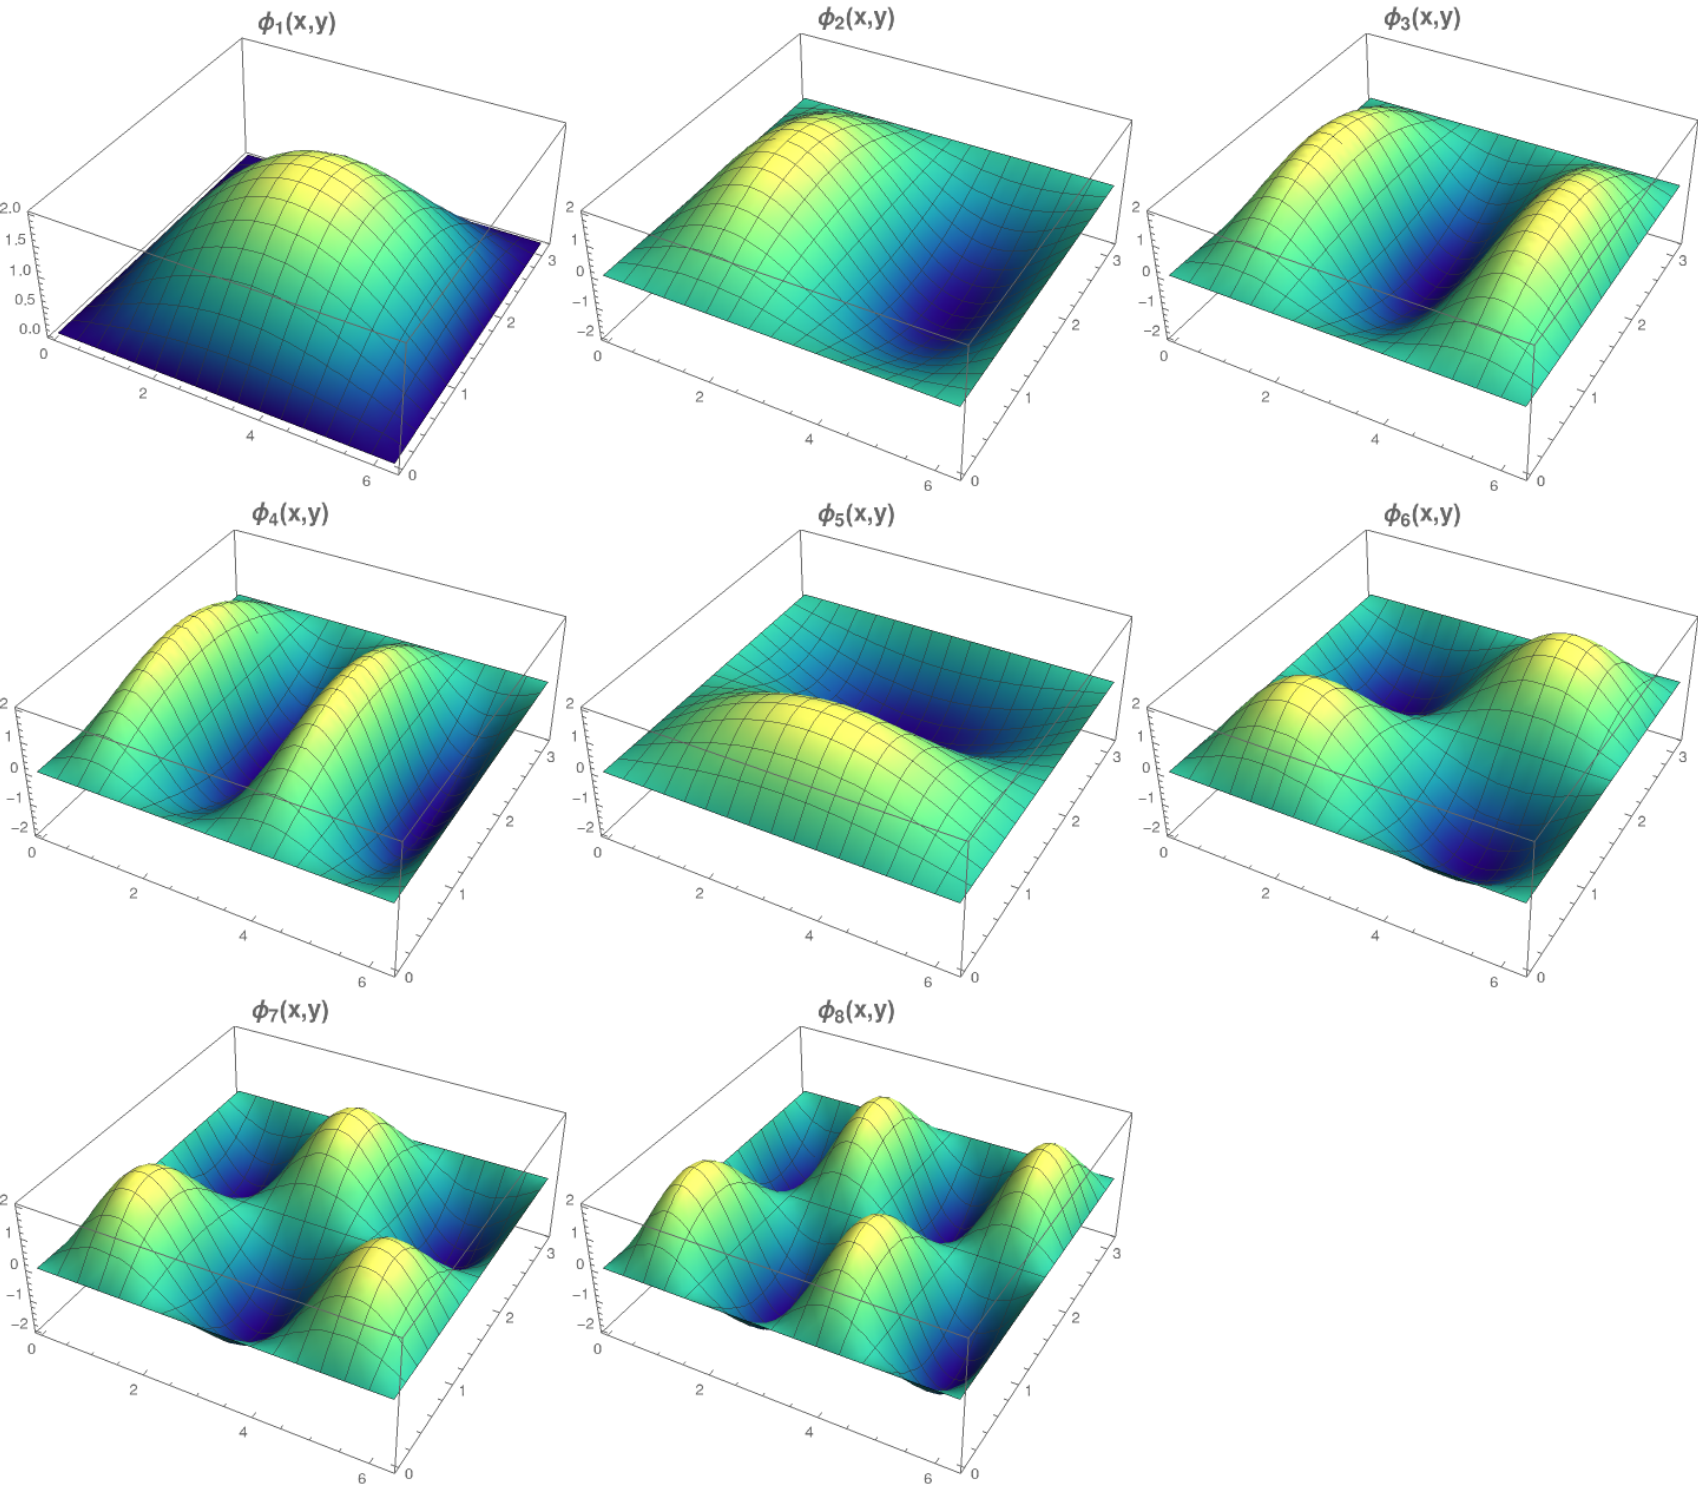
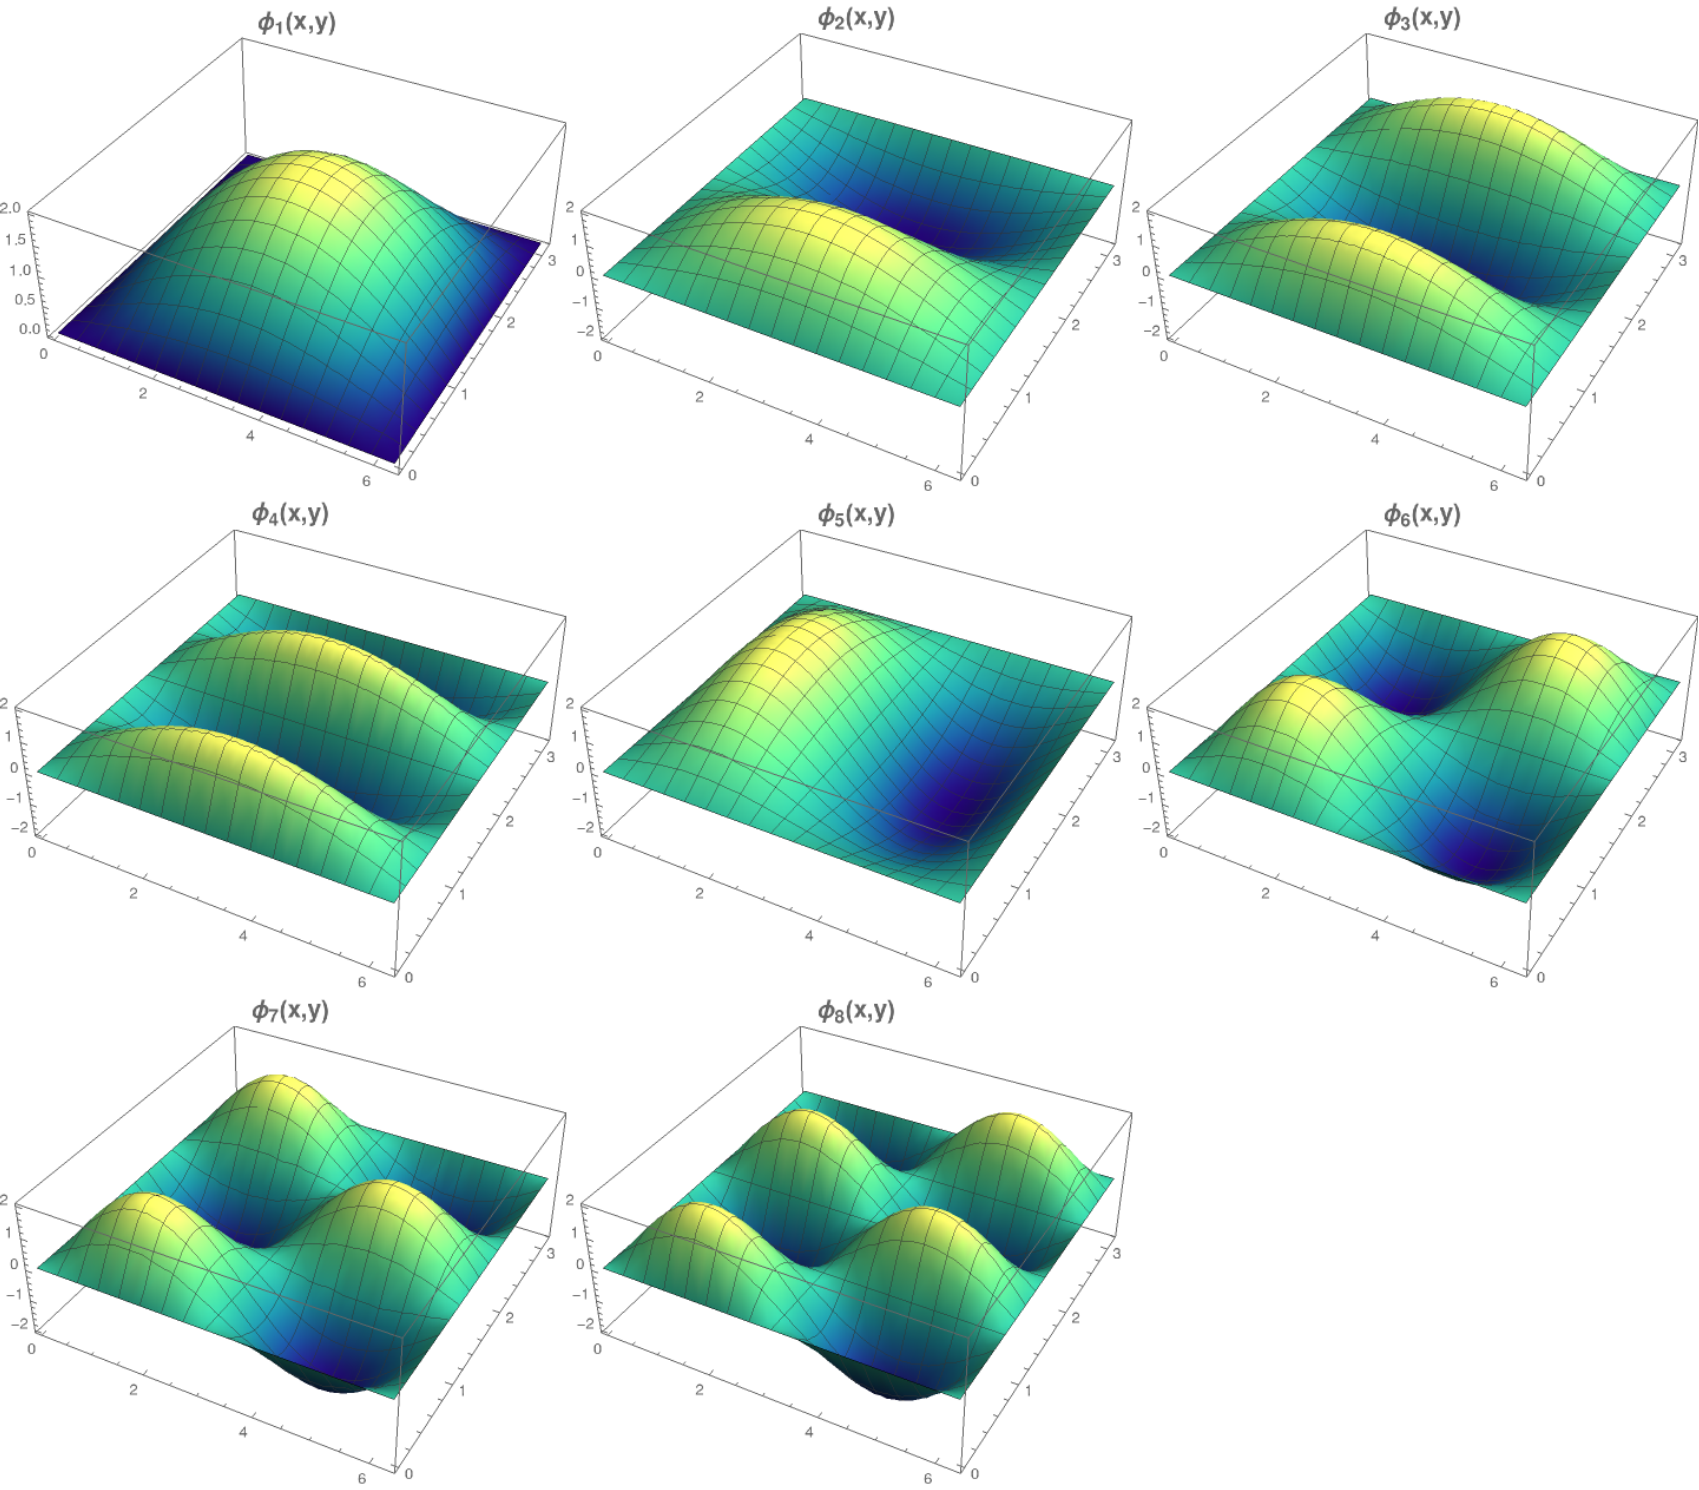
Corrected a mistake in the doc about the ocean basis functions for VDDG model version

diff --git a/documentation/source/files/model/maooam_model.rst b/documentation/source/files/model/maooam_model.rst
@@ -122,18 +122,18 @@ expansion, we number the basis functions along increasing values of :math:`H_{\r
 It allows to write the set as :math:`\left\{ \phi_i(x,y); 1 \leq i \leq n_\text{o}\right\}` where :math:`n_{\mathrm{o}}`
 (:attr:`~.params.QgParams.nmod` [1]) is the number of modes of the spectral expansion in the ocean.
 
-For example, the model derived in :cite:`mao-VDDG2015` can be specified by setting :math:`H_{\rm o} \in \{1,4\}`; :math:`P_{\rm o} \in \{1,2\}` and the set of basis functions is
+For example, the model derived in :cite:`mao-VDDG2015` can be specified by setting :math:`H_{\rm o} \in \{1,2\}`; :math:`P_{\rm o} \in \{1,4\}` and the set of basis functions is
 
 .. math::
 
     \phi_1(x,y) & = &  2\, \sin(\frac{n}{2} x)\, \sin(y), \nonumber \\
-    \phi_2(x,y) & = &  2\, \sin(n x)\, \sin(y), \nonumber \\
-    \phi_3(x,y) & = &  2\, \sin(\frac{3 n}{2} x)\, \sin(y), \nonumber \\
-    \phi_4(x,y) & = &  2\, \sin(2 n x)\, \sin(y), \nonumber \\
-    \phi_5(x,y) & = &  2\, \sin(\frac{n}{2} x)\, \sin(2 y), \nonumber \\
+    \phi_2(x,y) & = &  2\, \sin(\frac{n}{2} x)\, \sin(2 y), \nonumber \\
+    \phi_3(x,y) & = &  2\, \sin(\frac{n}{2} x)\, \sin(3 y), \nonumber \\
+    \phi_4(x,y) & = &  2\, \sin(\frac{n}{2} x)\, \sin(4 y), \nonumber \\
+    \phi_5(x,y) & = &  2\, \sin(n x)\, \sin(y), \nonumber \\
     \phi_6(x,y) & = &  2\, \sin(n x)\, \sin(2 y), \nonumber \\
-    \phi_7(x,y) & = &  2\, \sin(\frac{3 n}{2} x)\, \sin(2 y), \nonumber \\
-    \phi_8(x,y) & = &  2\, \sin(2 n x)\, \sin(2 y), \nonumber
+    \phi_7(x,y) & = &  2\, \sin(n x)\, \sin(3 y), \nonumber \\
+    \phi_8(x,y) & = &  2\, \sin(n x)\, \sin(4 y), \nonumber
 
 such that
 
